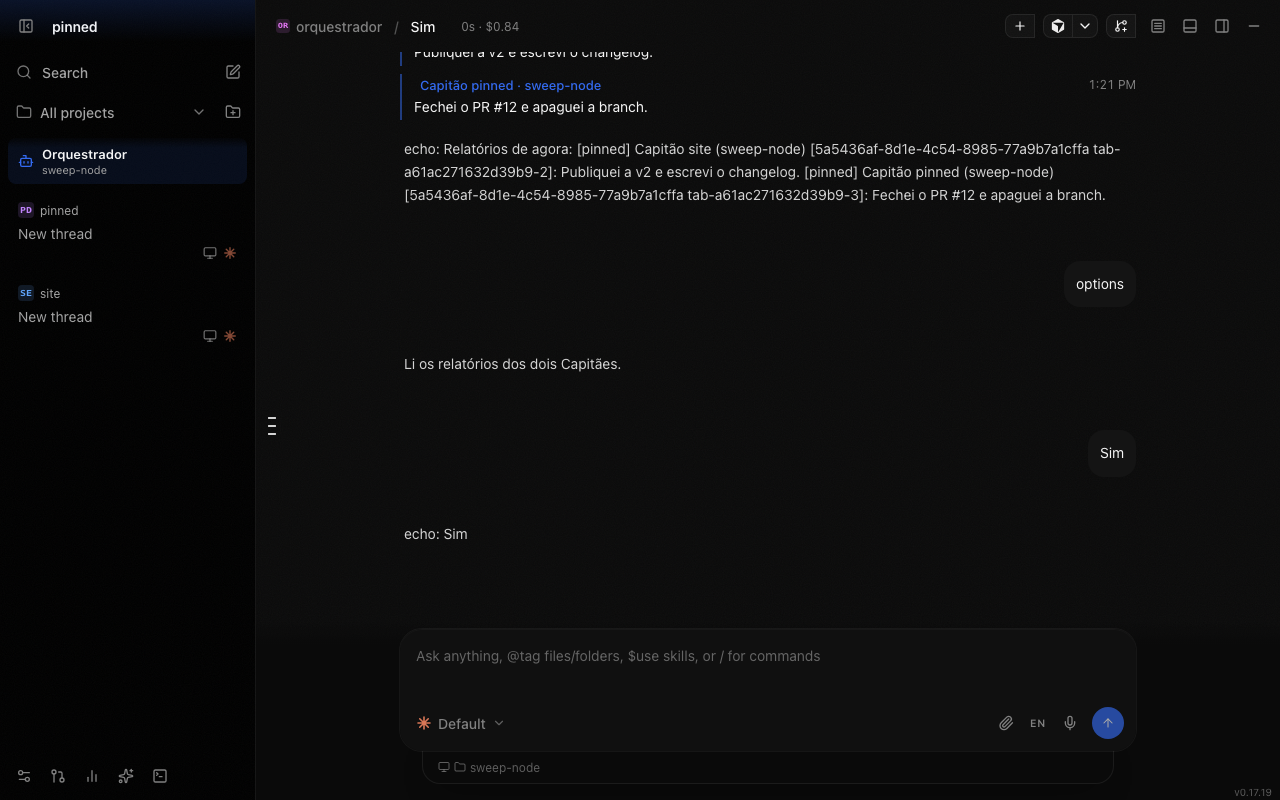
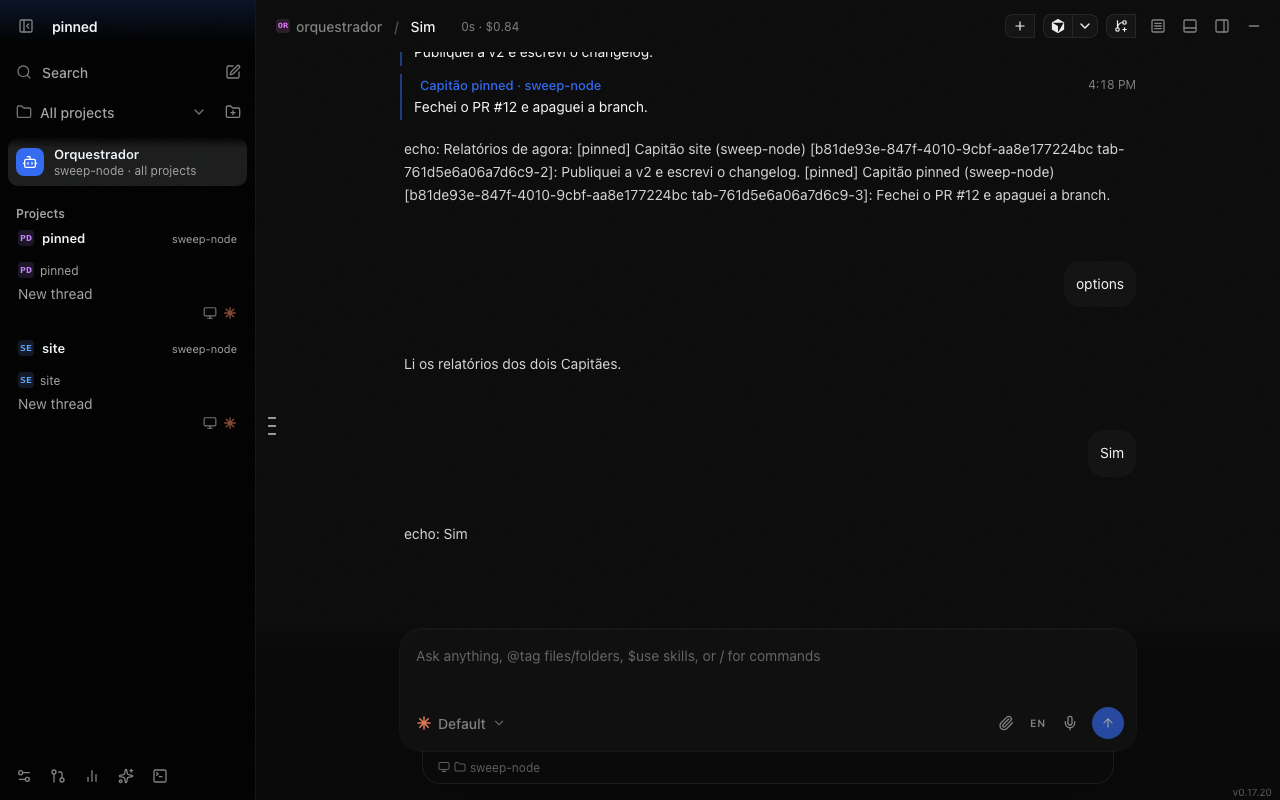
Sweep the sidebar tree, the waiting count and worker counts
global-chat.js seeds alpha's Captain with a queued message and two
workers, a plain thread on alpha and a question on beta, then asserts
the sidebar from the top: the orchestrator's count, Waiting on you, the
Projects heading, alpha's head ("1 queued", "1 running"), the Captain
with both workers nested under it, then the plain thread. It opens the
projects page from the heading and checks alpha's "2 workers" for the
project and its checkout, at 1440x900 and on a 390x844 phone. It shoots
the Captain card and a plain card, before and after, for comparison.

Both drivers now read the English strings, and global-orchestrator.js
seeds worker tabs, which the projects page counts.

diff --git a/scripts/web-sweep/global-chat.js b/scripts/web-sweep/global-chat.js
@@ -1,13 +1,14 @@
 #!/usr/bin/env node
 // Drives the global orchestrator's chat on the real page: the sidebar row, the grouped §8 report
-// rows, the Opções quick replies, Esperando você, and read aloud held back on desktop but spoken
-// on a phone.
+// rows, the Opções quick replies, Waiting on you, read aloud held back on desktop but spoken on a
+// phone, and the sidebar's project tree with the projects page's worker counts.
 //
 //   SWEEP_DIR=... scripts/web-sweep/stack.sh start
 //   SWEEP_DIR=... node scripts/web-sweep/global-chat.js
 //   SWEEP_DIR=... scripts/web-sweep/stack.sh stop
 //
-// Writes global-chat-*.png into scripts/web-sweep/screens/. The stack has one node, so that node
+// Writes global-chat-*.png and sidebar-*.png into scripts/web-sweep/screens/; CARD_SHOT names the
+// card shots' suffix (default "after"). The stack has one node, so that node
 // hosts the orchestrator, and two folders of its own (site, pinned) stand in for the Capitães the
 // reports name. The second tab replays the same account under iPhone emulation for read aloud.
 //
@@ -84,6 +85,14 @@ class Cdp {
     await this.send("Page.navigate", { url });
     await loaded;
   }
+  async shotOf(selector, file) {
+    const box = await this.evaluate((s) => {
+      const r = document.querySelector(s).getBoundingClientRect();
+      return { x: r.left, y: r.top, width: r.width, height: r.height };
+    }, selector);
+    const shot = await this.send("Page.captureScreenshot", { format: "png", clip: { ...box, scale: 1 } });
+    fs.writeFileSync(file, Buffer.from(shot.data, "base64"));
+  }
   // Captured at CSS pixels, so the phone's 3x screen does not triple the committed file.
   async screenshot(file) {
     const { cssLayoutViewport: { clientWidth: width, clientHeight: height } } = await this.send("Page.getLayoutMetrics");
@@ -131,6 +140,8 @@ async function launchBrowser(errors) {
       click: (selector) => cdp.evaluate((s) => document.querySelector(s).click(), selector),
       goto: (url) => cdp.goto(url),
       screenshot: (file) => cdp.screenshot(file),
+      shotOf: (selector, file) => cdp.shotOf(selector, file),
+      size: (width, height) => cdp.send("Emulation.setDeviceMetricsOverride", { width, height, deviceScaleFactor: cdp.scale, mobile: !!phone }),
     };
   };
   return { proc, profile, tab };
@@ -139,7 +150,7 @@ async function launchBrowser(errors) {
 // Runs in the page: everything the assertions read.
 const state = () => ({
   row: document.querySelector(".global-row")?.innerText.replace(/\s+/g, " ").trim() ?? null,
-  projectsLink: !!document.querySelector("[data-global-projects]"),
+  name: globalSettings.name,
   waitingHead: document.querySelector(".waiting-head")?.innerText.replace(/\s+/g, " ").trim() ?? null,
   waitingRows: [...document.querySelectorAll(".waiting-row")].map((r) => r.innerText.replace(/\s+/g, " ").trim()),
   threadRows: [...document.querySelectorAll("#thread-list .thread-row")].map((r) => r.dataset.tab),
@@ -152,6 +163,53 @@ const state = () => ({
   activeGlobal: active ? isGlobalOrchestratorTab(active) : false,
   activeRunning: active?.view.running ?? null,
   touch: touchComposer(),
+});
+
+// Runs in the page: alpha's Captain with a queued message, its two workers (one working, one done),
+// a plain thread on alpha, and a thread on beta asking a question. The node's tabs events replace
+// each view, so the seed wraps renderSidebar and re-applies itself before every render. Every card
+// carries a branch, a PR, stats and skipped permissions, so the card shots show each part.
+function seedTree(keys) {
+  const views = {
+    captain: { title: "Release v0.17.21", status: "working", running: true, queued: 1, bypass: true },
+    w1: { title: "Run the CI on main", role: "worker", status: "working", running: true },
+    w2: { title: "Changelog for v0.17.21", role: "worker", status: "done", running: true },
+    plain: { title: "Tidy the README", status: "done", running: true, bypass: true },
+    waiting: { title: "Which fallback stays?", status: "needs-input", interrupted: true, running: true },
+  };
+  const at = Math.floor(Date.now() / 1000) - 120;
+  const apply = () => {
+    const captain = tabByKey(keys.captain);
+    for (const [name, view] of Object.entries(views)) {
+      const tab = tabByKey(keys[name]);
+      if (!tab) continue;
+      Object.assign(tab.view, view, { updated: at, stats: { active_ms: 4_320_000, cost_usd: 3.42 } }, view.role === "worker" ? { spawned_by: captain?.view.id } : {});
+      const thread = threadOf(tab);
+      thread.workspace = { ...(thread.workspace ?? {}), branch: `sweep/${name}` };
+      const url = `https://github.com/example/alpha/pull/${90 + Object.keys(views).indexOf(name)}`;
+      if (!thread.items.some((i) => i.url === url)) thread.items.push({ kind: "pr", number: Number(url.split("/").pop()), url });
+      prStatuses.set(url, { status: { state: "open", title: views[name].title }, at: Date.now() + 864e5 });
+    }
+  };
+  if (!window.__treeRender) {
+    window.__treeRender = renderSidebar;
+    renderSidebar = () => {
+      apply();
+      window.__treeRender();
+    };
+  }
+  renderSidebar();
+}
+
+// Runs in the page: the sidebar from the top, each element as a token.
+const sidebarTokens = () => [...document.querySelectorAll("#thread-list > *")].map((el) => {
+  if (el.matches(".global-row")) return `orchestrator ${el.querySelector(".count")?.textContent ?? 0}`;
+  if (el.matches(".waiting-head")) return `waiting ${el.querySelector(".count")?.textContent ?? 0}`;
+  if (el.matches(".waiting-row")) return `asks ${el.dataset.waiting}`;
+  if (el.matches(".side-heading")) return `heading ${el.textContent}`;
+  if (el.matches(".project-head")) return `project ${[...el.querySelectorAll(".name, .state, .where")].map((e) => e.textContent).join(" ")}`;
+  if (el.matches(".thread-row")) return `${el.classList.contains("child") ? `  `.repeat(Number(el.style.getPropertyValue("--depth"))) : ""}${el.dataset.tab}`;
+  return el.className;
 });
 
 const login = async (page) => {
@@ -190,8 +248,7 @@ const sendText = (page, text) => page.evaluate((t) => {
     await waitFor("the orchestrator's row", () => page.evaluate(() => !!document.querySelector(".global-row")));
     let s = await page.evaluate(state);
     console.log("the row:", JSON.stringify(s.row));
-    check(s.row === "Orquestrador sweep-node", `row: ${s.row}`);
-    check(!s.projectsLink, "the Projects link shows without the settings page");
+    check(s.row === `${s.name} sweep-node · all projects`, `row: ${s.row}`);
     check(!s.orquestradorProject, "orquestrador is a project in the tree");
 
     await page.click(".global-row");
@@ -276,8 +333,10 @@ const sendText = (page, text) => page.evaluate((t) => {
     await waitFor("Esperando você", () => page.evaluate(() => !!document.querySelector(".waiting-row")));
     s = await page.evaluate(state);
     console.log("waiting:", JSON.stringify({ head: s.waitingHead, rows: s.waitingRows }));
-    check(s.waitingHead === "Esperando você 1", `head: ${s.waitingHead}`);
-    check(s.waitingRows.length === 1 && s.waitingRows[0].startsWith("pergunta") && s.waitingRows[0].endsWith("site · sweep-node"), `rows: ${JSON.stringify(s.waitingRows)}`);
+    check(s.waitingHead === "Waiting on you 1", `head: ${s.waitingHead}`);
+    check(s.waitingRows.length === 1 && /^\/question site · sweep-node · \S+$/.test(s.waitingRows[0]), `rows: ${JSON.stringify(s.waitingRows)}`);
+    check(await page.evaluate(() => !!document.querySelector(".waiting-row .dot.question")), "the question's dot is not the question tone");
+    check(s.row.endsWith("all projects 1"), `the orchestrator's row does not count the one waiting thread: ${s.row}`);
     check(!s.threadRows.includes(globalKey), "the global tab joined the thread list");
     check(await page.evaluate((k) => tabByKey(k).view.status === "needs-input" && !tabByKey(k).view.interrupted, keys.pinned), "the pinned Captain left its idle notice");
     await page.screenshot(path.join(SCREENS, "global-chat-waiting.png"));
@@ -326,6 +385,70 @@ const sendText = (page, text) => page.evaluate((t) => {
     check(JSON.stringify(phoneSpoken) === JSON.stringify([{ text: "Li os relatórios dos dois Capitães.", lang: "pt-BR" }]), `spoken: ${JSON.stringify(phoneSpoken)}`);
     await waitFor("the phone's quick replies", () => phone.evaluate(() => document.querySelectorAll(".quick-reply").length === 2));
     await phone.screenshot(path.join(SCREENS, "global-chat-phone.png"));
+
+    // The sidebar tree: the orchestrator's row with its count, Waiting on you, then each project
+    // with its Captain, the Captain's workers under it, and the project's plain threads.
+    await page.size(1440, 900);
+    const alpha = fs.realpathSync(path.join(WORK, "alpha"));
+    const beta = fs.realpathSync(path.join(WORK, "beta"));
+    const tree = await page.evaluate(async ({ machine, alpha, beta }) => {
+      const opened = async (dir) => (await revealTab(machine, await callOn(machine, { cmd: "open_tab", path: dir, bypass: false }))).key;
+      const captain = (await revealTab(machine, await callOn(machine, { cmd: "open_orchestrator", path: alpha }))).key;
+      return { captain, w1: await opened(alpha), w2: await opened(alpha), plain: await opened(alpha), waiting: await opened(beta) };
+    }, { machine: node, alpha, beta });
+    await page.evaluate(() => activate(tabs.find(isGlobalOrchestratorTab)));
+    await page.evaluate((src) => (0, eval)(src), `${seedTree}; seedTree(${JSON.stringify(tree)});`);
+    const shot = process.env.CARD_SHOT || "after";
+    await page.shotOf(`.thread-row[data-tab="${tree.captain}"]`, path.join(SCREENS, `sidebar-card-captain-${shot}.png`));
+    await page.shotOf(`.thread-row[data-tab="${tree.plain}"]`, path.join(SCREENS, `sidebar-card-plain-${shot}.png`));
+    const tokens = await page.evaluate(sidebarTokens);
+    console.log("sidebar:", JSON.stringify(tokens, null, 1));
+    const asks = tokens.filter((t) => t.startsWith("asks "));
+    check(asks.length === 2 && asks.includes(`asks ${tree.waiting}`), `waiting rows: ${JSON.stringify(asks)}`);
+    check(tokens[0] === "orchestrator 2" && tokens[1] === "waiting 2", `the orchestrator's count and the waiting head: ${JSON.stringify(tokens.slice(0, 2))}`);
+    const projectsAt = tokens.indexOf("heading Projects");
+    check(projectsAt === 2 + asks.length, `the Projects heading is not right under Waiting on you: ${projectsAt}`);
+    const alphaAt = tokens.indexOf("project alpha 1 queued 1 running sweep-node");
+    check(alphaAt > projectsAt, `alpha's head: ${JSON.stringify(tokens.filter((t) => t.startsWith("project ")))}`);
+    check(JSON.stringify(tokens.slice(alphaAt + 1, alphaAt + 5)) === JSON.stringify([tree.captain, `  ${tree.w1}`, `  ${tree.w2}`, tree.plain]),
+      `alpha's Captain, its two workers under it, then the plain thread: ${JSON.stringify(tokens.slice(alphaAt + 1, alphaAt + 5))}`);
+    const betaAt = tokens.indexOf("project beta sweep-node");
+    check(betaAt > projectsAt && tokens[betaAt + 1] === tree.waiting, `beta's head and its waiting thread: ${JSON.stringify(tokens.slice(betaAt, betaAt + 2))}`);
+    const headCount = tokens.filter((t) => t.startsWith("project ")).length;
+    check(new Set(tokens.filter((t) => t.startsWith("project ")).map((t) => t.split(" ")[1])).size === headCount, "a project has two heads");
+    await page.screenshot(path.join(SCREENS, "sidebar-tree.png"));
+
+    // The Projects heading opens the projects page, which counts alpha's two running workers, for
+    // the project and for its checkout.
+    await page.click(".side-heading[data-global-projects]");
+    await waitFor("the projects page", () => page.evaluate(() => shellPage() === "global-projects"));
+    const alphaProject = () => page.evaluate(() => {
+      renderGlobalProjectsPage();
+      const row = [...document.querySelectorAll(".gp-row")].find((r) => r.querySelector(".gp-name")?.textContent === "alpha");
+      return row && { state: row.querySelector(".gp-state").textContent, workers: row.querySelector(".gp-workers").textContent,
+        machines: [...row.querySelectorAll(".gp-machine")].map((b) => b.textContent) };
+    });
+    const alphaRow = await alphaProject();
+    console.log("projects page alpha:", JSON.stringify(alphaRow));
+    check(alphaRow?.state === "Working" && alphaRow.workers === "2 workers", `alpha's row: ${JSON.stringify(alphaRow)}`);
+    check(JSON.stringify(alphaRow.machines) === JSON.stringify(["sweep-nodeWorking2 workers"]), `alpha's checkout: ${JSON.stringify(alphaRow.machines)}`);
+    await page.screenshot(path.join(SCREENS, "sidebar-projects-page.png"));
+
+    // The same tree on a phone, the sidebar open over the chat.
+    const small = await browser.tab(true);
+    await small.goto(HUB);
+    await waitFor("the hub on the phone", () => small.evaluate(() => document.body.dataset.hub === "online"));
+    await small.evaluate((src) => (0, eval)(src), `${seedTree}; seedTree(${JSON.stringify(tree)});`);
+    await small.evaluate(() => toggleSidebar(true));
+    await waitFor("alpha's head on the phone", () => small.evaluate(() => [...document.querySelectorAll(".project-head")].some((h) => /queued/.test(h.innerText))));
+    const phoneTokens = await small.evaluate(sidebarTokens);
+    check(phoneTokens.includes("project alpha 1 queued 1 running sweep-node") && phoneTokens[0] === "orchestrator 2", `phone sidebar: ${JSON.stringify(phoneTokens)}`);
+    await small.screenshot(path.join(SCREENS, "sidebar-tree-phone.png"));
+    await small.evaluate(() => document.querySelector(".project-head").scrollIntoView());
+    await small.screenshot(path.join(SCREENS, "sidebar-tree-phone-projects.png"));
+    await small.evaluate(() => openGlobalProjects());
+    await small.evaluate(() => toggleSidebar(false));
+    await small.screenshot(path.join(SCREENS, "sidebar-projects-page-phone.png"));
 
     check(!errors.length, `page errors:\n${errors.slice(0, 5).join("\n")}`);
     console.log("global chat: every check passed");

diff --git a/scripts/web-sweep/global-orchestrator.js b/scripts/web-sweep/global-orchestrator.js
@@ -34,8 +34,8 @@ const waitFor = async (what, fn, timeout = 20000) => {
 };
 
 // Runs in the page: a machine too old for the global calls (online, refusing), an offline one,
-// and a working Capitão on alpha with two workers, which the projects page reads. A tabs event
-// from the node replaces a tab's view, so every step re-applies the Capitão.
+// and a working Captain on alpha with two running worker tabs, which the projects page counts. A
+// tabs event from the node replaces a tab's view, so every step re-applies them.
 function seed() {
   if (!machines.has("old-mac")) {
     machines.set("old-mac", {
@@ -52,7 +52,10 @@ function seed() {
   const captain = tabs.find((t) => t.machine === window.__captainMachine && t.view.cwd === window.__captainDir);
   if (captain) {
     Object.assign(captain.view, { role: "orchestrator", status: "working" });
-    threadOf(captain).agents = [{ state: "running", name: "w1" }, { state: "running", name: "w2" }];
+    for (const key of window.__workers ?? []) {
+      const worker = tabByKey(key);
+      if (worker) Object.assign(worker.view, { role: "worker", running: true, spawned_by: captain.view.id });
+    }
   }
 }
 
@@ -79,13 +82,15 @@ function seed() {
   const alpha = folders[0];
 
   // Both nodes open the three work folders, because a node lists only the folders its own app has
-  // opened. The Capitão on alpha is on the first node, with two workers running.
+  // opened. The Captain on alpha is on the first node, with two workers running there.
   await page.evaluate(async ({ ids, dirs, captain, dir }) => {
     window.__captainMachine = captain;
     window.__captainDir = dir;
     for (const node of ids) {
       for (const d of dirs) if (!tabs.some((t) => t.machine === node && t.view.cwd === d)) await openRemote(node, d, false);
     }
+    window.__workers = [];
+    for (let i = 0; i < 2; i++) window.__workers.push((await revealTab(captain, await callOn(captain, { cmd: "open_tab", path: dir, bypass: false }))).key);
   }, { ids: nodes.map((n) => n.id), dirs: folders, captain: nodes[0].id, dir: alpha });
   await page.addScriptTag({ content: `${seed};` });
   await waitFor("both nodes' project answers", () =>
@@ -98,7 +103,7 @@ function seed() {
   // machine are seeded first, so the section's read already includes them.
   await page.evaluate(seed);
   await page.evaluate(() => openSettings());
-  await waitFor("the Orquestrador global section", () => page.evaluate(() => !!document.getElementById("global-orchestrator-settings")));
+  await waitFor("the Global orchestrator section", () => page.evaluate(() => !!document.getElementById("global-orchestrator-settings")));
   await waitFor("the section's notes about the machines that cannot take it", () =>
     page.evaluate(() => /Old Mac precisa atualizar o pinned/.test(document.getElementById("go-notes").textContent) && /Linux VPS está offline/.test(document.getElementById("go-notes").textContent)));
   const hosts = await page.evaluate(() => [...document.querySelectorAll("#go-host .go-host")].map((b) => `${b.textContent}:${b.dataset.machine}:${b.disabled ? "off" : "on"}`));
@@ -117,7 +122,7 @@ function seed() {
   console.log("host chip before:", nameOf(before), "choosing:", chosen.name);
   await page.click(`#go-host .go-host[data-machine="${chosen.id}"]`);
   await page.click("#go-save");
-  await waitFor("the save to land", () => page.evaluate(() => document.getElementById("go-status").textContent === "Salvo"));
+  await waitFor("the save to land", () => page.evaluate(() => document.getElementById("go-status").textContent === "Saved"));
   const perNode = await page.evaluate((ids) => Promise.all(ids.map((id) => callOn(id, { cmd: "global_orchestrator_settings" }))), nodes.map((n) => n.id));
   console.log("saved settings, read back per node:", JSON.stringify(Object.fromEntries(nodes.map((n, i) => [n.name, perNode[i]]))));
   const hosted = nodes.filter((n, i) => perNode[i].host === true).map((n) => n.name);
@@ -144,23 +149,23 @@ function seed() {
       }
       const box = section.getBoundingClientRect();
       const status = document.getElementById("go-status").getBoundingClientRect();
-      if (status.right > box.right || status.left < box.left || status.right > document.documentElement.clientWidth) cut.push(`Salvo at ${status.left}-${status.right}, section ${box.left}-${box.right}`);
+      if (status.right > box.right || status.left < box.left || status.right > document.documentElement.clientWidth) cut.push(`Saved at ${status.left}-${status.right}, section ${box.left}-${box.right}`);
       return cut;
     });
   const desktopCut = await fits();
   check(!desktopCut.length, `desktop: ${desktopCut.join("; ")}`);
   await page.locator("#global-orchestrator-settings").screenshot({ path: path.join(SCREENS, "go-settings.png") });
   await page.setViewportSize({ width: 390, height: 1400 });
-  await page.evaluate(() => (document.getElementById("go-status").textContent = "Salvo"));
+  await page.evaluate(() => (document.getElementById("go-status").textContent = "Saved"));
   const phoneCut = await fits();
   check(!phoneCut.length, `phone: ${phoneCut.join("; ")}`);
   await page.locator("#global-orchestrator-settings").screenshot({ path: path.join(SCREENS, "go-settings-phone.png") });
   await page.setViewportSize({ width: 1280, height: 860 });
   console.log("settings layout: every option and the save status fit at 1280 and 390 px");
 
-  // The projects page: every project of the account, its Capitão and its workers. It merges a repo
+  // The projects page: every project of the account, its Captain and its workers. It merges a repo
   // across machines whatever the sidebar's Project grouping says, so grouping is off here. A tabs event can
-  // rebuild the tab list while the Capitão's thread is briefly keyless, and the page's thread GC
+  // rebuild the tab list while the Captain's thread is briefly keyless, and the page's thread GC
   // drops the workers with it, so a row that still looks right is re-rendered before it is read.
   await page.evaluate(() => {
     sideSettings.grouping = false;
@@ -170,7 +175,7 @@ function seed() {
     page.evaluate(() => {
       seed();
       const alphaRow = () => [...document.querySelectorAll(".gp-row")].find((r) => r.querySelector(".gp-name")?.textContent === "alpha");
-      const right = (row) => !!row && row.querySelector(".gp-state").textContent === "trabalhando" && row.querySelector(".gp-workers").textContent === "2 workers";
+      const right = (row) => !!row && row.querySelector(".gp-state").textContent === "Working" && row.querySelector(".gp-workers").textContent === "2 workers";
       if (!right(alphaRow())) renderGlobalProjectsPage();
       return right(alphaRow());
     }));
@@ -187,16 +192,16 @@ function seed() {
   });
   console.log("project rows:", JSON.stringify(rows));
   const alphaRow = rows.find((r) => r.name === "alpha");
-  check(alphaRow && alphaRow.state === "trabalhando", `alpha row: ${JSON.stringify(alphaRow)}`);
+  check(alphaRow && alphaRow.state === "Working", `alpha row: ${JSON.stringify(alphaRow)}`);
   check(alphaRow.workers === "2 workers", `alpha workers: ${JSON.stringify(alphaRow)}`);
-  // Each machine chip reads "<machine name><captain state>"; alpha lists both nodes.
+  // Each machine chip reads "<machine name><captain state><running workers>"; alpha lists both nodes.
   const alphaHosts = await page.evaluate(() => {
     const row = [...document.querySelectorAll(".gp-row")].find((r) => r.querySelector(".gp-name")?.textContent === "alpha");
     return [...row.querySelectorAll(".gp-machine")].map((b) => b.firstChild.textContent).sort();
   });
   console.log("alpha machines:", JSON.stringify(alphaHosts));
   check(JSON.stringify(alphaHosts) === JSON.stringify(nodes.map((n) => n.name).sort()), `alpha should list ${nodes.map((n) => n.name)}: ${JSON.stringify(alphaHosts)}`);
-  check(alphaRow.machines.includes(`${nodes[0].name}trabalhando:on`), `alpha's Capitão on ${nodes[0].name}: ${JSON.stringify(alphaRow)}`);
+  check(alphaRow.machines.includes(`${nodes[0].name}Working2 workers:on`), `alpha's Captain and workers on ${nodes[0].name}: ${JSON.stringify(alphaRow)}`);
   // The rows are the account's projects: the three work folders and the offline machine's infra.
   check(JSON.stringify(rows.map((r) => r.name).sort()) === JSON.stringify(["alpha", "beta", "gamma", "infra"]), `unexpected rows: ${JSON.stringify(rows.map((r) => r.name))}`);
   const infraRow = rows.find((r) => r.name === "infra");
